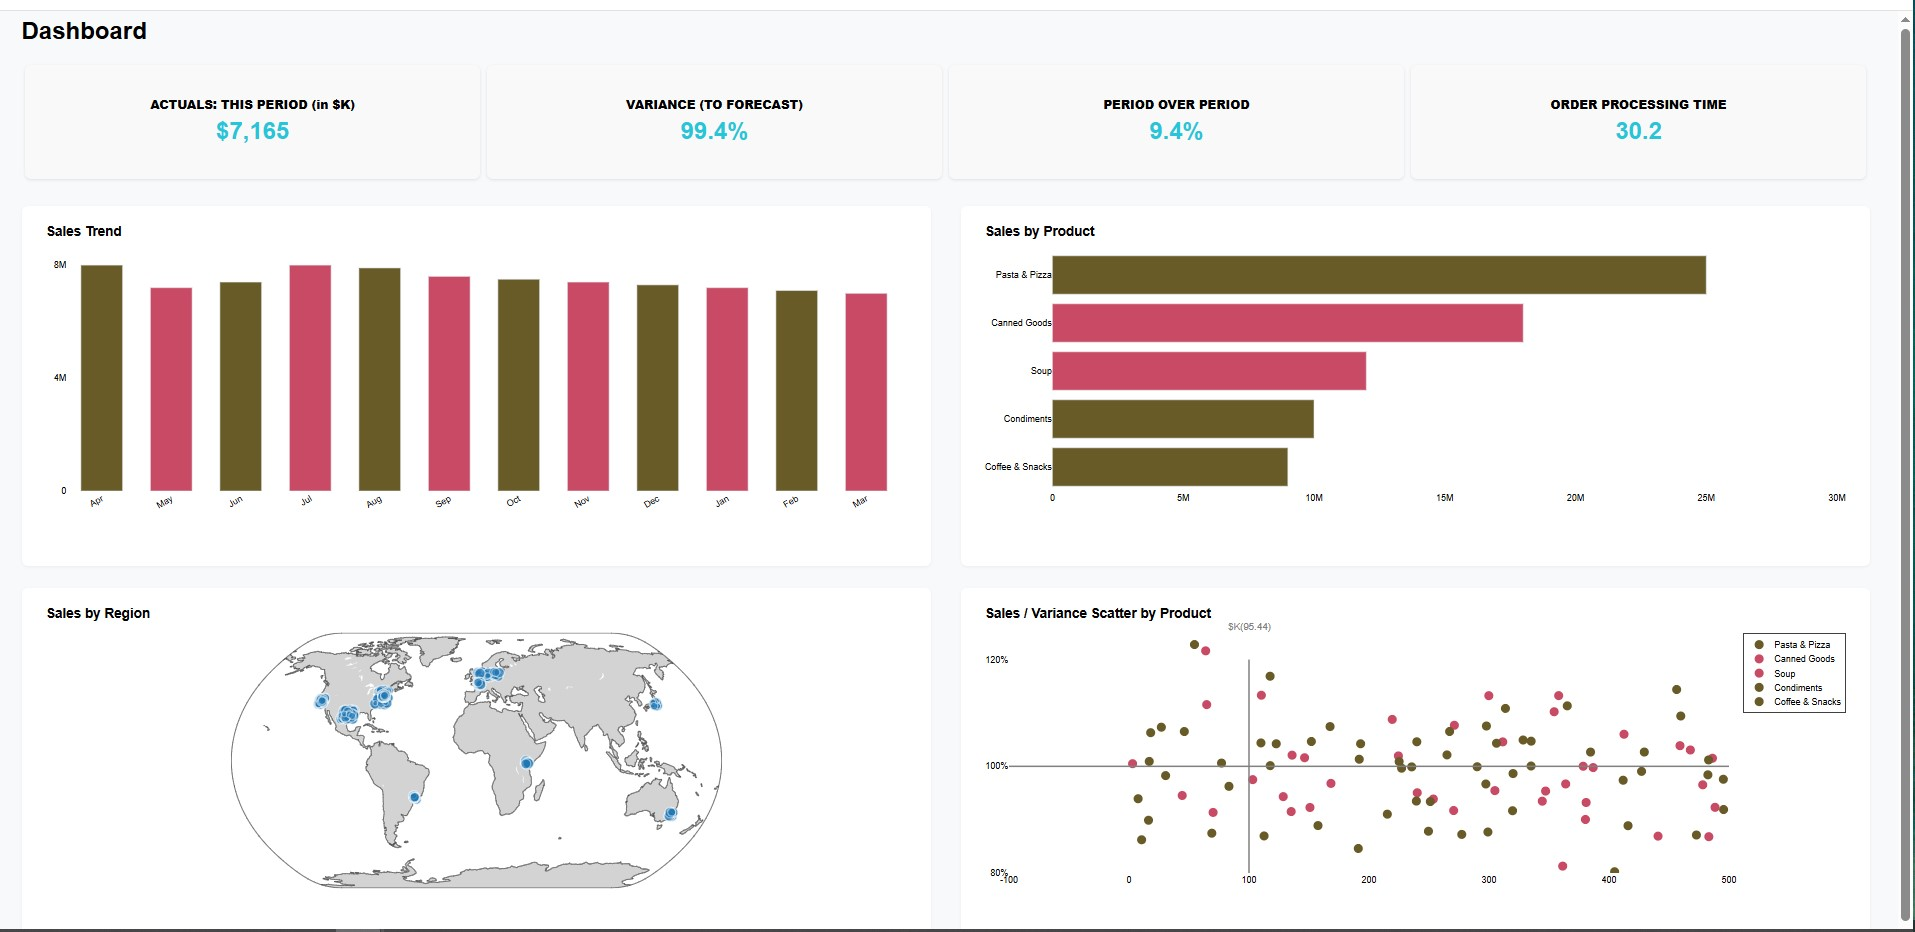
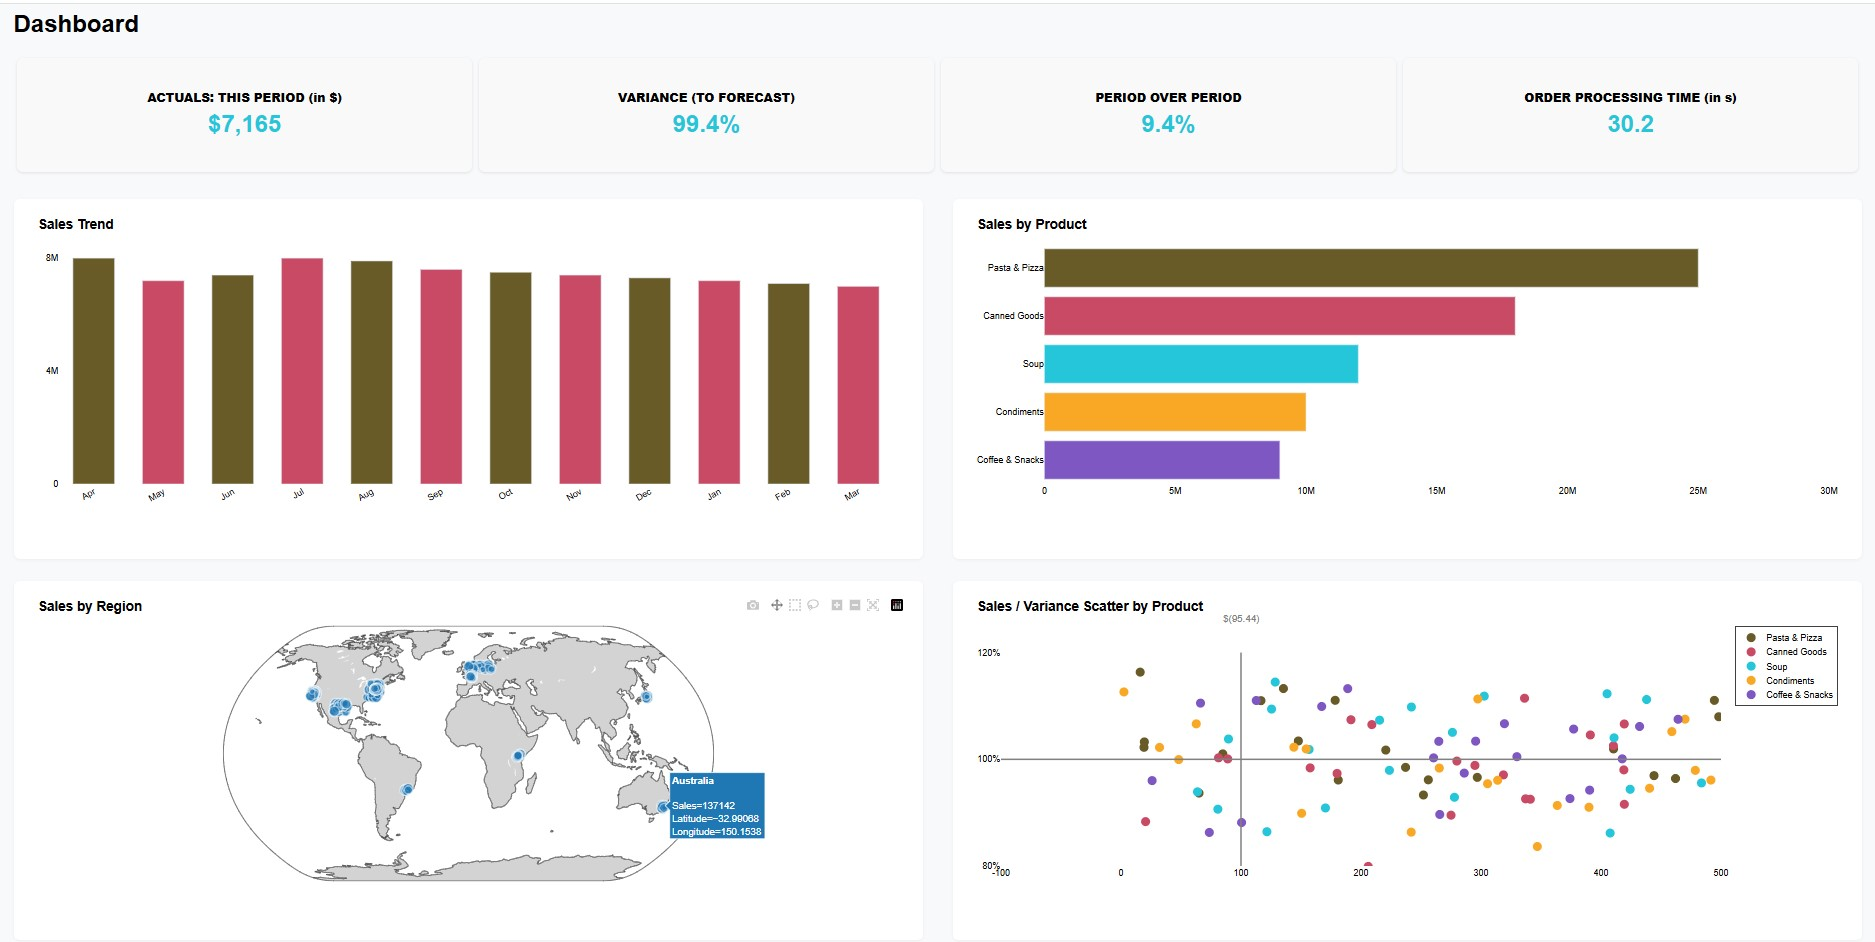
updated the chart

diff --git a/index.html b/index.html
@@ -114,7 +114,7 @@
             <div class="project-title-box">
               <h3>Plotly Dashboard</h3>
             </div>
-            <p>This work generates interactive dashboards using Python's Plotly library and exports them as static HTML files. The data used is synthetic and generated from scratch using Pandas and Numpy only, and then stored in CSV and JSON files.</p>
+            <p>This work generates interactive dashboards using Python's Plotly library and exports them as static HTML files. The data used is synthetic and generated from scratch using Pandas and Numpy only, and then stored in CSV and JSON files. The web-based dashboard is highly insightful such that hovering over any data point instantly reveals the exact sales values across all charts</p>
             <img src="./images/dashboard.jpg" alt="Plotly Dashboard">
             <a href="https://github.com/Isaac-Munyaka/plotly_dashboards" class="see-project-btn" target="_blank" rel="noopener">
               <i class="fas fa-arrow-right"></i> View Project
